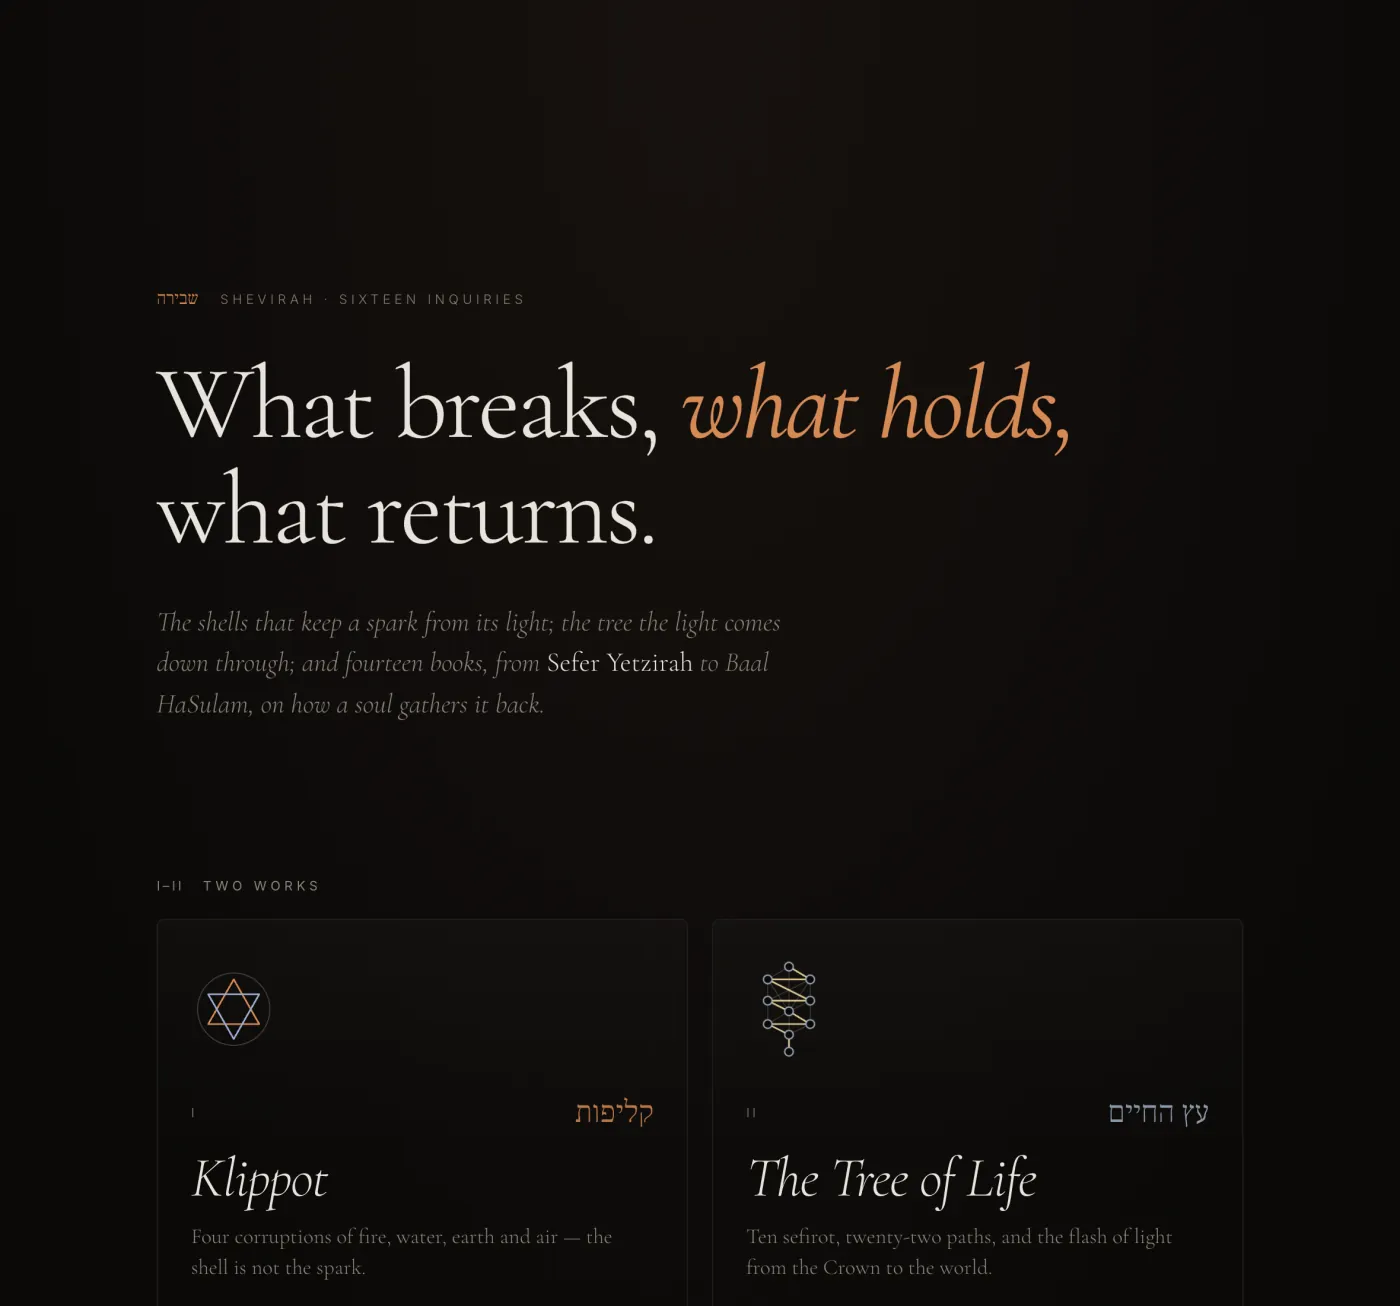
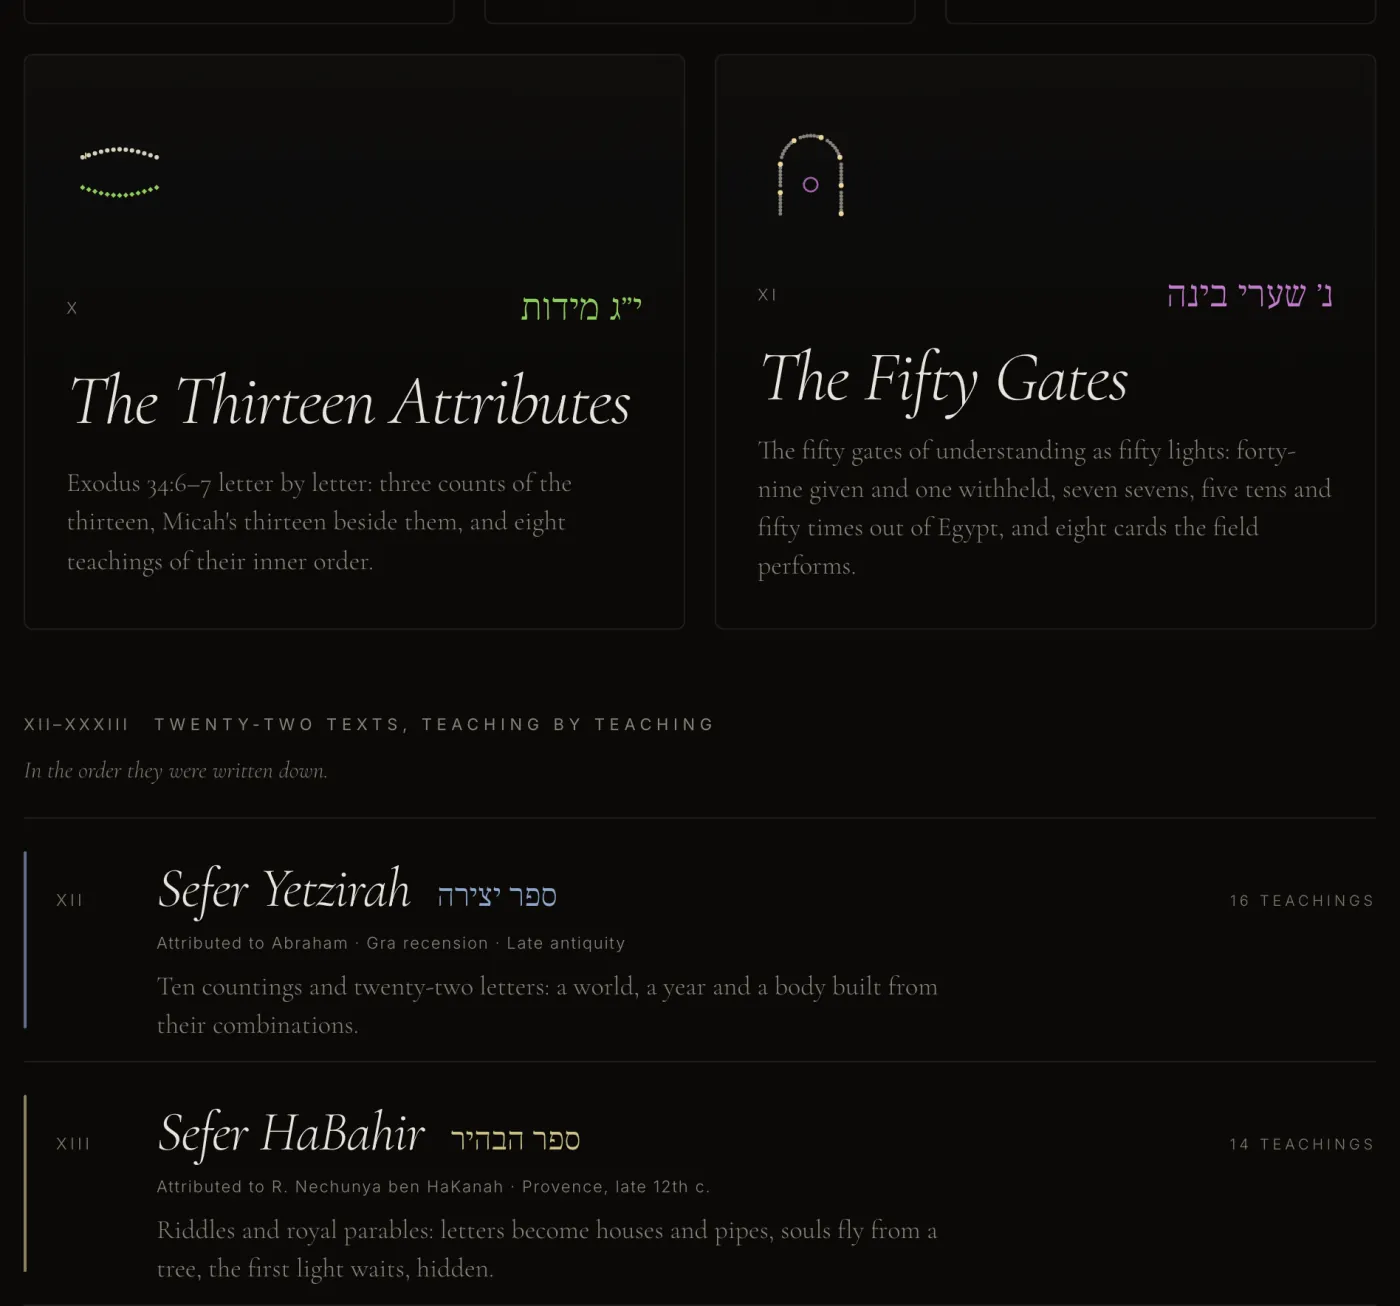
Shevirah: bring the showcase up to the 33-piece site
The section described the old two-work, fourteen-text Shevirah on
kelipot.vercel.app. It now matches the live site at
kelipot.quentin.software: eleven works and twenty-two texts (463 teaching
pages), The Four Shells and The Ten Sefirot under their new names, Next 16
and React 19 on Vercel rather than a static GitHub Pages export.

- Copy, JSON-LD (CreativeWork) and the llms.txt entry rewritten from
  shevirah's app/series.ts, README and the live sitemap.
- All six screenshots retaken from the live site: the hub (works and
  text shelf), The Four Shells, The Ten Sefirot, Taryag, the 231 Gates and
  a Sefat Emet teaching. Same sizes and WebP pair as before; the hub's
  height attribute now matches the file (1306).

diff --git a/pages/index.tsx b/pages/index.tsx
@@ -44,7 +44,7 @@ const NowPatterns = dynamic(() => import("@/components/Insights").then((m) => m.
 
 // ── SEO ───────────────────────────────────────────────────────────────────
 const SITE_URL = "https://moshemalka.com";
-const SHEVIRAH = "https://kelipot.vercel.app/";
+const SHEVIRAH = "https://kelipot.quentin.software/";
 
 const SEO = {
   title: "Moshe Malka — Founder & principal engineer, Quentin.Code",
@@ -149,10 +149,10 @@ const STRUCTURED_DATA = {
       "@type": "CreativeWork",
       "@id": `${SHEVIRAH}#work`,
       name: "Shevirah",
-      alternateName: "Shevirah — Sixteen Inquiries",
+      alternateName: "Shevirah — Thirty-three Inquiries",
       url: SHEVIRAH,
       description:
-        "An interactive web series on Kabbalah: two works, Klippot and the Tree of Life, and fourteen classic texts read teaching by teaching, each with its own animated artwork.",
+        "An interactive web series on Kabbalah: eleven works, among them The Four Shells, The Ten Sefirot and Taryag, each drawn on one canvas, and twenty-two classic texts read teaching by teaching, each teaching with its own animated artwork.",
       about: "Kabbalah",
       inLanguage: "en",
       author: { "@id": `${SITE_URL}/#person` },
@@ -464,42 +464,43 @@ function OpenSource() {
 
 /* ── Shevirah ──────────────────────────────────────────────────────── */
 
-// Screenshots from the live site, artworks engaged (hover state).
+// Screenshots from the live site (2026-11-13): each work with one light pinned
+// and its joins drawn; the text page with its artwork engaged (hover state).
 const SHEVIRAH_SHOTS = [
   {
-    src: "klippot",
-    path: "klippot/",
-    title: "Klippot",
-    caption: "Fire, the first of four corruptions",
-    alt: "Shevirah's Klippot page: a hand-drawn flame beside the line \u201cPassion, turned.\u201d",
+    src: "four-shells",
+    path: "klippot",
+    title: "The Four Shells",
+    caption: "The 288 sparks, held in four shells",
+    alt: "The Four Shells: 288 sparks in arcs inside four concentric shells, one spark pinned with its joins drawn and a panel giving its degree, letter and sefirah.",
   },
   {
-    src: "tree-of-life",
-    path: "tree-of-life/",
-    title: "The Tree of Life",
-    caption: "Ten sefirot on the Ari\u2019s twenty-two paths",
-    alt: "The Tree of Life: ten glowing spheres joined by lit paths on a starfield, with Descent, Ascent, Journey and Name controls.",
+    src: "ten-sefirot",
+    path: "tree-of-life",
+    title: "The Ten Sefirot",
+    caption: "Ten sefirot, Da\u2019at and twenty-two letters",
+    alt: "The Ten Sefirot: the tree of ten lights, Da\u2019at drawn as a ring and the letters on its paths, with Keter pinned and a panel of its sources.",
   },
   {
-    src: "tanya-small-city",
-    path: "tanya/the-small-city/",
-    title: "Tanya",
-    caption: "The Small City",
-    alt: "A Tanya teaching, The Small City: a walled city with a crown on either side, next to the paraphrased text.",
+    src: "taryag",
+    path: "mitzvot",
+    title: "Taryag: The 613",
+    caption: "248 limbs and 365 days",
+    alt: "Taryag: the 613 commandments as points, 248 in an inner disc and 365 in a ring around it, with the first commandment held and its connections listed.",
   },
   {
-    src: "etz-chaim-tzimtzum",
-    path: "etz-chaim/tzimtzum/",
-    title: "Etz Chaim",
-    caption: "The Withdrawal (tzimtzum)",
-    alt: "An Etz Chaim teaching, The Withdrawal: a dark circle opening in a field of light.",
+    src: "gates",
+    path: "gates",
+    title: "The 231 Gates",
+    caption: "Every pair of letters, on the wheel",
+    alt: "The 231 Gates: twenty-two Hebrew letters around a wheel with a gate at the middle of every chord, the gate alef-dalet pinned and the gates through each of its letters fanned out.",
   },
   {
-    src: "zohar-receive-to-bestow",
-    path: "hakdamat-hazohar/receive-to-bestow/",
-    title: "Introduction to the Zohar",
-    caption: "Receiving in Order to Give",
-    alt: "A teaching from Baal HaSulam\u2019s Introduction to the Zohar: a vessel below a point of light, joined by a dashed circle.",
+    src: "sefat-emet",
+    path: "sefat-emet/zion-in-every-thing",
+    title: "Sefat Emet",
+    caption: "Zion in Every Thing",
+    alt: "A Sefat Emet teaching, Zion in Every Thing: the reading bar and paraphrased text beside scattered shapes whose points of light are joined by fine lines.",
   },
 ] as const;
 
@@ -526,44 +527,43 @@ function Shevirah() {
         <h2 id="shevirah-h" className="c-h2">
           Shevirah
         </h2>
-        <p className="c-secmeta">16 pieces · 258 teachings, each with its own artwork</p>
+        <p className="c-secmeta">33 pieces · 463 teachings, each with its own artwork</p>
       </div>
       <p className="c-lede">
-        An interactive web series on Kabbalah, named for the breaking of the vessels. Two works,
-        Klippot and the Tree of Life, and fourteen texts from Sefer Yetzirah to Baal HaSulam, read
-        teaching by teaching.
+        An interactive web series on Kabbalah, named for the breaking of the vessels. Eleven works,
+        from The Four Shells and The Ten Sefirot to Taryag and the 231 Gates, and twenty-two texts
+        from Sefer Yetzirah to Baal HaSulam, read teaching by teaching.
       </p>
       <figure className="c-panel c-feature c-showcase">
         <div className="c-feature__copy">
           <p className="c-feature__name">How it&rsquo;s built</p>
           <ul className="c-studio__work c-showcase__notes">
             <li>
-              <span className="c-studio__client">Next.js, exported static</span>
+              <span className="c-studio__client">Next.js 16 and React 19, on Vercel</span>
               <span className="c-studio__what">
-                Served from GitHub Pages. No CSS framework and no UI library: hand-written CSS
-                and inline SVG.
+                Every page prerendered. No CSS framework and no UI library: hand-written CSS,
+                inline SVG and canvas.
               </span>
             </li>
             <li>
-              <span className="c-studio__client">Hand-drawn, animated SVG</span>
+              <span className="c-studio__client">Eleven works, one canvas each</span>
               <span className="c-studio__what">
-                Every artwork has a second state you reach by looking closer: hover, focus or
-                tap. Reduced motion gets a still frame that still reads.
+                Pin a light and its joins are drawn, to walk by pointer or keyboard. A Sod row acts
+                out teachings from the sources; an accessible list holds it all.
+              </span>
+            </li>
+            <li>
+              <span className="c-studio__client">Twenty-two texts, reading first</span>
+              <span className="c-studio__what">
+                Each teaching has its own animated SVG. A sticky bar keeps your place; progress
+                stays in your browser.
               </span>
             </li>
             <li>
               <span className="c-studio__client">Paraphrased from Sefaria</span>
               <span className="c-studio__what">
-                Each text credits the edition and license it was read from. Every Hebrew term
-                links to its page on Gamatria.
-              </span>
-            </li>
-            <li>
-              <span className="c-studio__client">The Ari&rsquo;s tree</span>
-              <span className="c-studio__what">
-                The Tree of Life places the letters on the Ari&rsquo;s paths, with
-                correspondences from the Gra&rsquo;s Sefer Yetzirah, and holds to WCAG 2.2 AA
-                contrast.
+                Each text credits the edition and license it was read from, and every count in
+                the works is computed in code. Every Hebrew term links to its page on Gamatria.
               </span>
             </li>
           </ul>
@@ -575,8 +575,8 @@ function Shevirah() {
           <Shot
             src="hub"
             w={1400}
-            h={1305}
-            alt="The Shevirah hub: \u201cWhat breaks, what holds, what returns.\u201d above tiles for Klippot and the Tree of Life."
+            h={1306}
+            alt="The Shevirah hub: the last tiles of the eleven works, The Thirteen Attributes and The Fifty Gates, above the shelf of twenty-two texts, each with its author, date and number of teachings."
           />
         </a>
       </figure>
